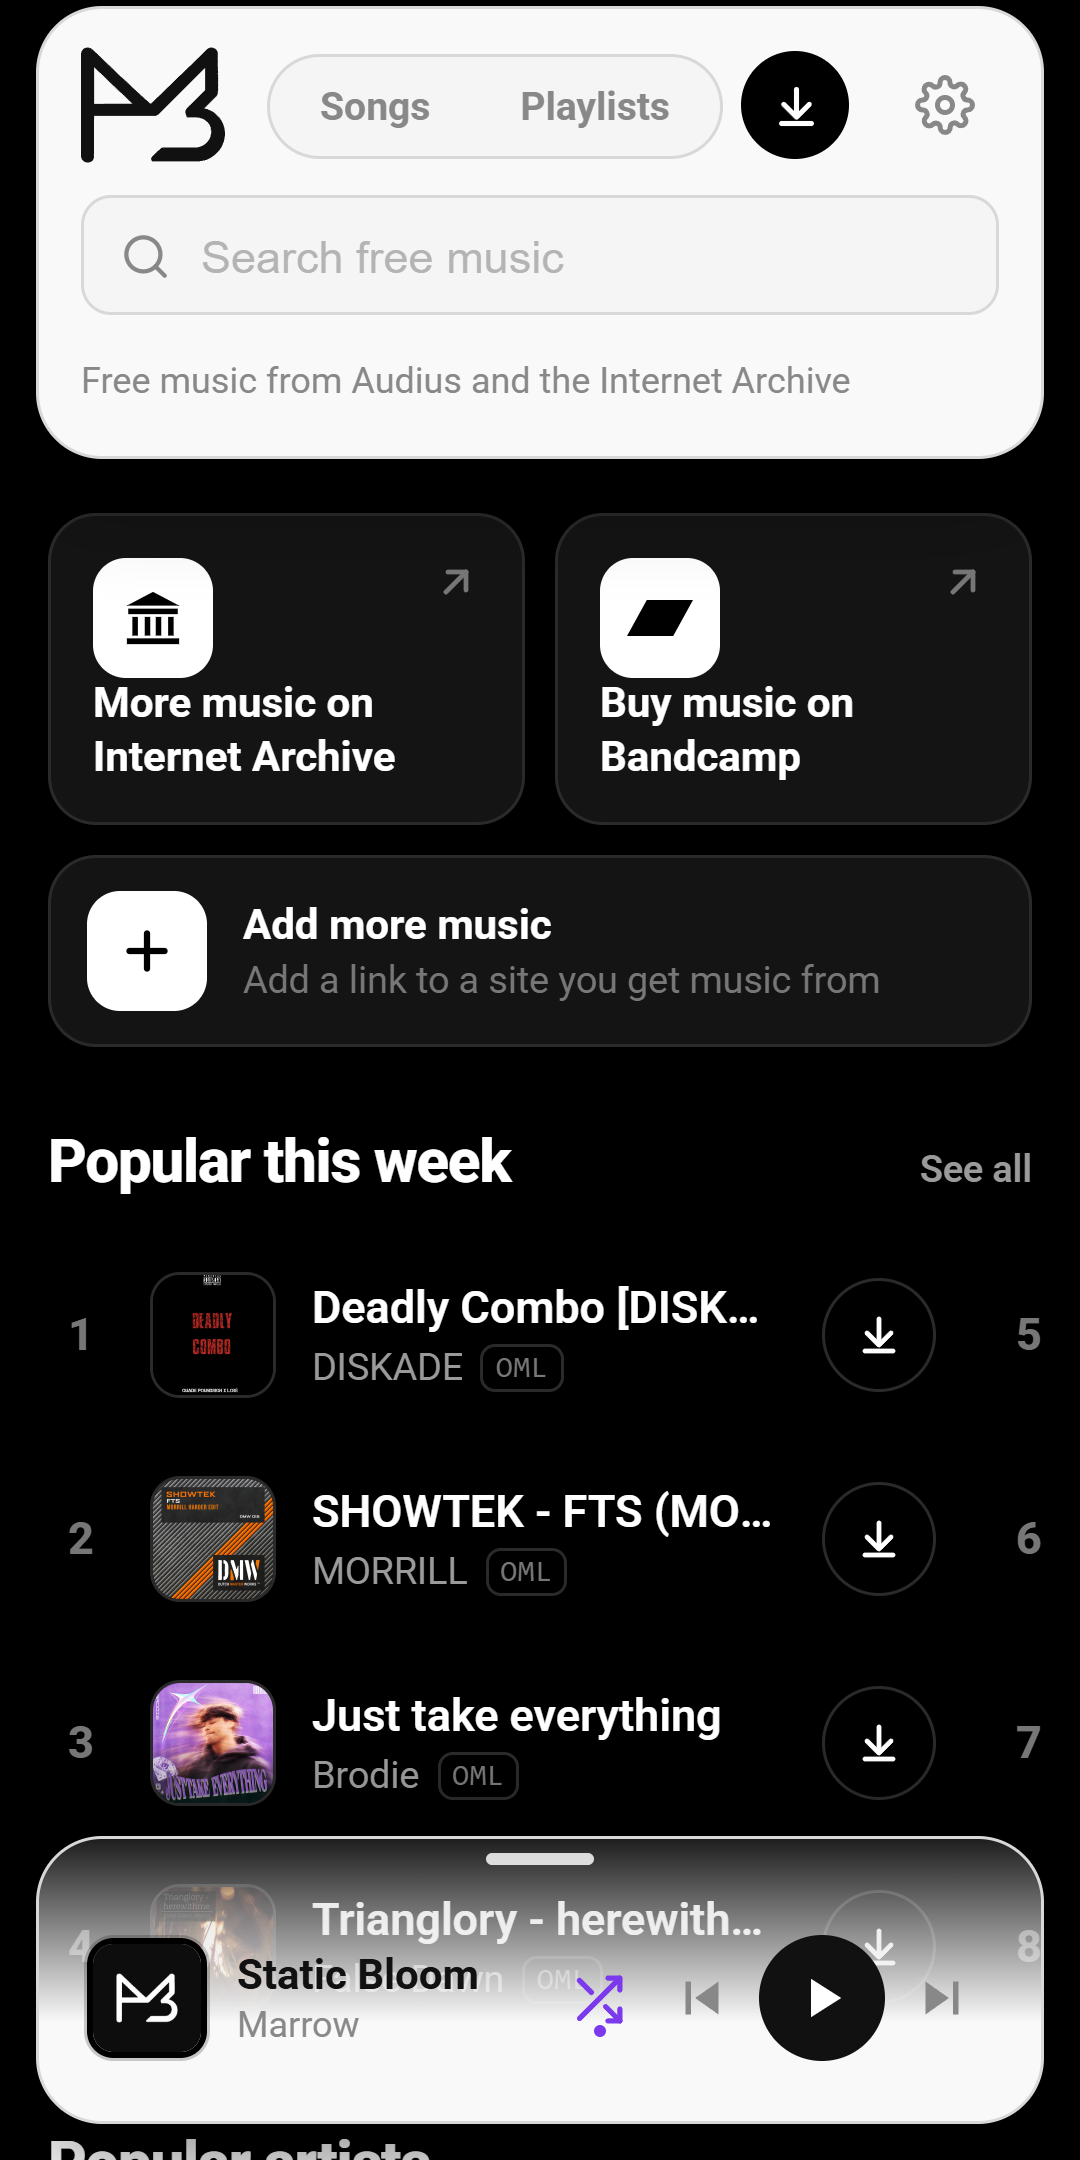
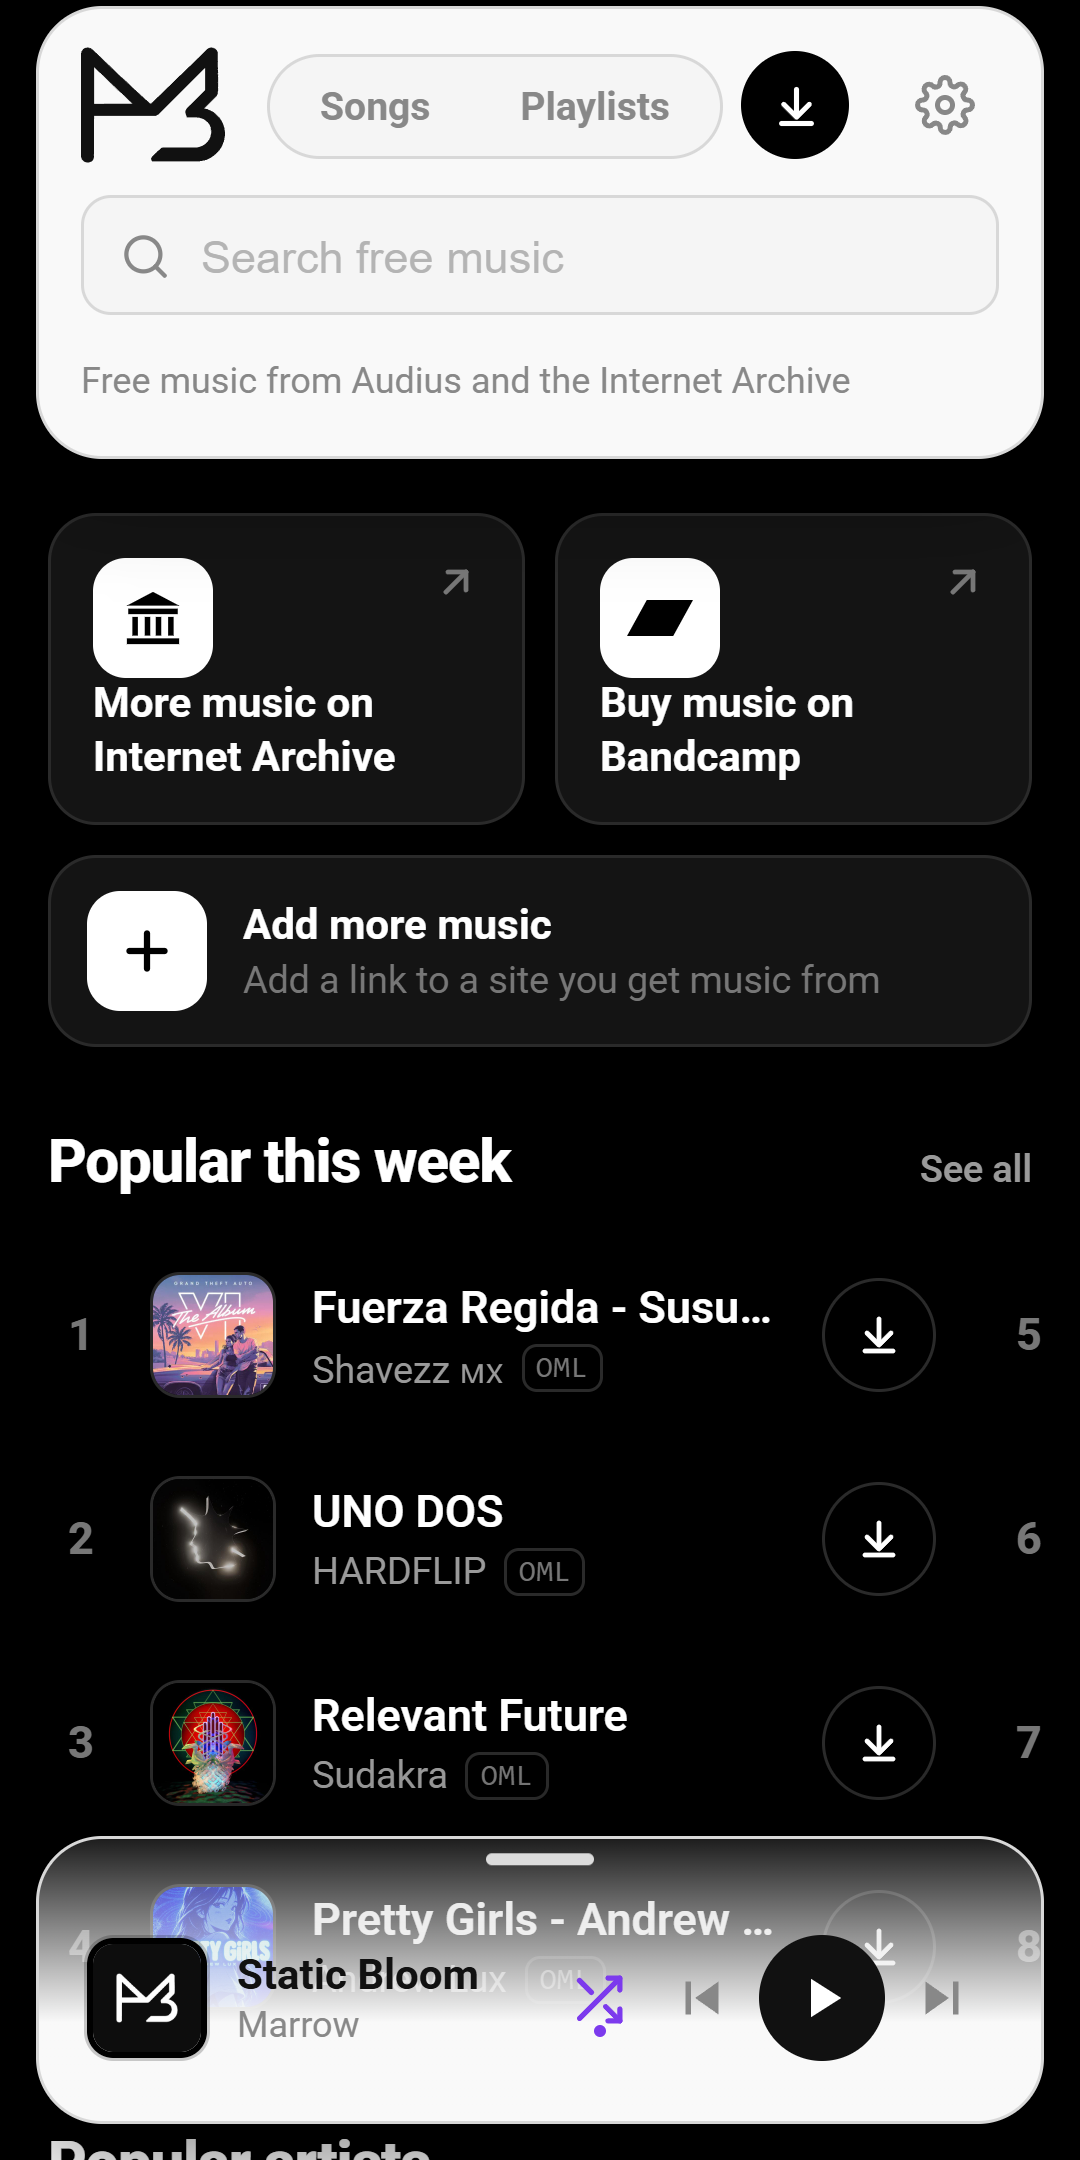
Website: 1.7.0 screenshots, a red flat heart, and a simple download page
The phones under "How it looks" are captured again from 1.7.0
(flows-site-1.7.0.mjs). The features mention the widgets, backups to
Google Drive, OneDrive or Dropbox, and the extra player styles in Pro.
The Support heart is a flat SVG in the like red instead of an emoji.
download.html is now a plain store page: Google Play and Microsoft Store
side by side, with the old-APK move-over steps folded away underneath.

diff --git a/Website/download.html b/Website/download.html
@@ -3,13 +3,13 @@
 <head>
 <meta charset="UTF-8">
 <meta name="viewport" content="width=device-width, initial-scale=1">
-<title>MPTree for Android</title>
-<meta name="description" content="MPTree for Android is on Google Play. How to move over from a copy downloaded from this website.">
-<meta name="robots" content="noindex">
+<title>Download MPTree</title>
+<meta name="description" content="Download MPTree, the free offline music player, for Android from Google Play or for Windows from the Microsoft Store.">
+<link rel="canonical" href="https://mp-tree.net/download.html">
 <meta name="theme-color" content="#000000">
 <meta property="og:type" content="website">
-<meta property="og:title" content="MPTree for Android">
-<meta property="og:description" content="MPTree for Android is on Google Play. How to move over from a copy downloaded from this website.">
+<meta property="og:title" content="Download MPTree">
+<meta property="og:description" content="The free offline music player, for Android and Windows.">
 <meta property="og:image" content="https://mp-tree.net/assets/img/og-image.png?v=45">
 <meta name="twitter:card" content="summary_large_image">
 <meta name="twitter:image" content="https://mp-tree.net/assets/img/og-image.png?v=45">
@@ -19,7 +19,7 @@
 <link rel="apple-touch-icon" href="assets/icon/apple-touch-icon-180.png">
 
 <link rel="stylesheet" href="assets/tokens.css?v=45">
-<link rel="stylesheet" href="assets/site.css?v=50">
+<link rel="stylesheet" href="assets/site.css?v=51">
 </head>
 <body>
 
@@ -30,64 +30,48 @@
       <span>MPTree</span>
     </a>
     <nav class="bar-nav bar-nav-dl">
+      <a href="/#look">How it looks</a>
       <a href="/#features">Features</a>
-      <a href="/#support">Support</a>
     </nav>
   </div>
 </header>
 
-<main id="main" class="wrap dl">
+<main id="main" class="wrap dlp">
 
-  <!-- The website no longer hands out its own Android copy: Google Play is the
-       one way in (October 2026). This page stays because copies downloaded here
-       before still point at it when they say a new version is out. -->
-  <section class="dl-head">
-    <p class="kicker">Free music player for Android</p>
-    <h1>MPTree for Android</h1>
-    <p class="lede">MPTree for Android comes from Google Play, which keeps it up to date for you.</p>
-    <div class="dl-actions">
+  <section class="dlp-head">
+    <img src="assets/img/mptree-mark-white.svg" alt="" width="64" height="64" class="dlp-mark">
+    <h1>Get MPTree</h1>
+    <p>Free. Plays the music on your device. No account needed.</p>
+  </section>
+
+  <!-- One card per store. The Store link keeps its cid so the Microsoft
+       Store dashboard can count website installs. -->
+  <section class="dlp-stores" aria-label="Stores">
+    <div class="dlp-card">
+      <h2>Android</h2>
+      <p>Android 7.0 or newer</p>
       <a class="store-badge" href="https://play.google.com/store/apps/details?id=com.caelan.mptree" target="_blank" rel="noopener"><img src="assets/img/google-play-badge.png?v=47" alt="Get it on Google Play" width="564" height="168"></a>
+    </div>
+    <div class="dlp-card">
+      <h2>Windows</h2>
+      <p>Windows 10 or 11</p>
+      <a class="store-badge" href="https://get.microsoft.com/installer/download/9PN3L88V4H58?cid=website_cta_psi"><img src="assets/img/microsoft-store-badge.svg?v=48" alt="Download from the Microsoft Store" width="161" height="44"></a>
     </div>
   </section>
 
-  <section class="section-flush">
-    <h2>Got MPTree from this website before?</h2>
-    <p class="section-lede">
-      That copy no longer gets updates. The one on Google Play is signed differently, so
-      Android will not install it on top: the old one goes first. Your music files stay
-      where they are, and a backup brings back your playlists, likes and settings.
-    </p>
-    <ol class="guide">
-      <li>
-        <span class="g-n">1</span>
-        <div class="g-c">
-          <b>Make a backup</b>
-          <p>In MPTree, open <strong>Settings</strong>, then <strong>Backup &amp; Restore</strong>, and export a backup.</p>
-        </div>
-      </li>
-      <li>
-        <span class="g-n">2</span>
-        <div class="g-c">
-          <b>Uninstall the old MPTree</b>
-          <p>Hold its icon and choose <strong>Uninstall</strong>.</p>
-        </div>
-      </li>
-      <li>
-        <span class="g-n">3</span>
-        <div class="g-c">
-          <b>Install it from Google Play</b>
-          <p>Tap <strong>Get it on Google Play</strong> above, then <strong>Install</strong>.</p>
-        </div>
-      </li>
-      <li>
-        <span class="g-n">4</span>
-        <div class="g-c">
-          <b>Restore your backup</b>
-          <p>Open MPTree, go to <strong>Settings</strong>, then <strong>Restore backup</strong>, and pick the backup you made.</p>
-        </div>
-      </li>
+  <!-- Copies downloaded from this website before October 2026 still point
+       here when they say a new version is out, so the move-over steps stay,
+       folded away. -->
+  <details class="dlp-old">
+    <summary>Got MPTree for Android from this website before?</summary>
+    <p>That copy no longer gets updates, and Android will not install the Google Play one on top of it. Your music stays where it is.</p>
+    <ol>
+      <li>In MPTree, open <strong>Settings</strong>, then <strong>Backup &amp; Restore</strong>, and make a backup.</li>
+      <li>Uninstall the old MPTree.</li>
+      <li>Install MPTree from Google Play.</li>
+      <li>Open it, go to <strong>Settings</strong>, then <strong>Restore backup</strong>.</li>
     </ol>
-  </section>
+  </details>
 
 </main>
 

diff --git a/Website/index.html b/Website/index.html
@@ -26,7 +26,7 @@
 <link rel="apple-touch-icon" href="assets/icon/apple-touch-icon-180.png">
 
 <link rel="stylesheet" href="assets/tokens.css?v=45">
-<link rel="stylesheet" href="assets/site.css?v=50">
+<link rel="stylesheet" href="assets/site.css?v=51">
 <!-- Google AdSense: the one ad on the homepage. Only this page loads it; see privacy.html#site-ads. -->
 <script async src="https://pagead2.googlesyndication.com/pagead/js/adsbygoogle.js?client=ca-pub-3909703327280410" crossorigin="anonymous"></script>
 </head>
@@ -87,8 +87,8 @@
   </section>
 
   <!-- ── Interface. Real screenshots of the app, so they cannot drift from
-       the real thing. The phones are MPTree 1.4.0, captured with
-       Branding/store/app-screens/capture/flows-site-1.4.0.mjs; run it again
+       the real thing. The phones are MPTree 1.7.0, captured with
+       Branding/store/app-screens/capture/flows-site-1.7.0.mjs; run it again
        when the interface changes. ─────────────────────────────────────── -->
   <section id="look" class="section wrap">
     <h2>How it looks</h2>
@@ -109,21 +109,21 @@
       <div class="phone-row">
         <div class="phone">
           <div class="phone-screen">
-            <img class="phone-shot" src="assets/img/screens/songs.png?v=45"
+            <img class="phone-shot" src="assets/img/screens/songs.png?v=49"
                  alt="The MPTree song list, with a track playing in the bar at the bottom"
                  width="1080" height="2160" loading="lazy">
           </div>
         </div>
         <div class="phone">
           <div class="phone-screen">
-            <img class="phone-shot" src="assets/img/screens/playlists.png?v=45"
+            <img class="phone-shot" src="assets/img/screens/playlists.png?v=49"
                  alt="The MPTree playlists page, with the automatic playlists above your own"
                  width="1080" height="2160" loading="lazy">
           </div>
         </div>
         <div class="phone">
           <div class="phone-screen">
-            <img class="phone-shot" src="assets/img/screens/discover.png?v=45"
+            <img class="phone-shot" src="assets/img/screens/discover.png?v=49"
                  alt="Discover in MPTree: search free music, and the songs popular this week, each with a download button"
                  width="1080" height="2160" loading="lazy">
           </div>
@@ -170,15 +170,15 @@
       </li>
       <li>
         <h3>Controls everywhere</h3>
-        <p>Skip and pause from your lock screen, the notification shade, or a widget on your home screen.</p>
+        <p>Skip and pause from your lock screen, the notification shade, or one of the widgets on your home screen.</p>
       </li>
       <li>
         <h3>Backups</h3>
-        <p>Pack your playlists, artwork and music into one file, then restore the lot on a new phone.</p>
+        <p>Pack your playlists, artwork and music into one file, keep it on Google Drive, OneDrive or Dropbox, and restore the lot on a new phone.</p>
       </li>
       <li>
         <h3>Make it yours</h3>
-        <p>Record skins, colour shades and app icons come with MPTree Pro, a one-time €2.99. Everything above stays free.</p>
+        <p>Extra player styles, records and app icons come with MPTree Pro, a one-time €2.99. Everything above stays free.</p>
       </li>
       <li>
         <h3>On all your devices</h3>
@@ -229,7 +229,7 @@
         when you choose one, for a day of Pro. If it is useful to you, you can chip in. Entirely optional, always appreciated.
       </p>
       <a class="btn btn-lg btn-ghost" href="https://paypal.me/MPTreeApp" target="_blank" rel="noopener">
-        <span aria-hidden="true">❤</span>&nbsp; Support MPTree
+        <svg class="heart" width="16" height="16" viewBox="0 0 24 24" fill="currentColor" aria-hidden="true"><path d="M12 21.2 10.6 20C5.4 15.3 2 12.2 2 8.4 2 5.3 4.4 3 7.4 3c1.7 0 3.4.8 4.6 2.1C13.2 3.8 14.9 3 16.6 3 19.6 3 22 5.3 22 8.4c0 3.8-3.4 6.9-8.6 11.6L12 21.2z"/></svg>Support MPTree
       </a>
     </div>
   </section>

diff --git a/Website/assets/site.css b/Website/assets/site.css
@@ -551,3 +551,38 @@ a { color: inherit; text-decoration: none; }
 .soon-h { vertical-align: middle; margin-left: 8px; position: relative; top: -4px; }
 .dl-meta { text-decoration: none; cursor: default; }
 .dl-meta:hover { color: var(--mp-muted); }
+
+/* ── Download page, simple (November 2026) ─────────────────────────────── */
+.btn .heart { margin-right: 8px; flex: none; color: var(--mp-state-like); }
+.dlp { padding-top: 56px; padding-bottom: 24px; max-width: 760px; }
+.dlp-head { text-align: center; }
+.dlp-mark { display: block; margin: 0 auto 20px; }
+.dlp-head h1 {
+  margin: 0;
+  font-size: clamp(34px, 6vw, 56px);
+  font-weight: var(--mp-weight-heavy);
+  letter-spacing: -0.04em;
+  line-height: 1.04;
+}
+.dlp-head p { margin: 14px auto 0; color: var(--mp-text-sub); font-size: var(--mp-text-body); max-width: 40ch; }
+.dlp-stores { margin-top: 44px; display: grid; grid-template-columns: 1fr 1fr; gap: 16px; }
+.dlp-card {
+  border: 1px solid var(--mp-border);
+  border-radius: var(--mp-radius-lg);
+  padding: 28px 20px 24px;
+  display: flex; flex-direction: column; align-items: center; text-align: center;
+}
+.dlp-card h2 { margin: 0; font-size: var(--mp-text-title); font-weight: var(--mp-weight-bold); letter-spacing: -0.02em; }
+.dlp-card p { margin: 6px 0 22px; color: var(--mp-muted); font-size: var(--mp-text-small); }
+.dlp-card .store-badge { margin-top: auto; display: flex; align-items: center; height: 54px; }
+.dlp-card .store-badge img { height: 54px; width: auto; }
+.dlp-old { margin: 40px auto 0; max-width: 560px; color: var(--mp-text-sub); font-size: var(--mp-text-small); }
+.dlp-old summary { cursor: pointer; text-align: center; color: var(--mp-muted); list-style: none; }
+.dlp-old summary::-webkit-details-marker { display: none; }
+.dlp-old summary:hover { color: var(--mp-text); }
+.dlp-old[open] summary { margin-bottom: 12px; color: var(--mp-text); }
+.dlp-old ol { margin: 12px 0 0; padding-left: 20px; line-height: 1.7; }
+@media (max-width: 560px) {
+  .dlp { padding-top: 36px; }
+  .dlp-stores { grid-template-columns: 1fr; }
+}

diff --git a/Website/privacy.html b/Website/privacy.html
@@ -13,7 +13,7 @@
 <link rel="apple-touch-icon" href="assets/icon/apple-touch-icon-180.png">
 
 <link rel="stylesheet" href="assets/tokens.css?v=45">
-<link rel="stylesheet" href="assets/site.css?v=50">
+<link rel="stylesheet" href="assets/site.css?v=51">
 </head>
 <body>
 

diff --git a/Website/test.html b/Website/test.html
@@ -14,7 +14,7 @@
 <link rel="apple-touch-icon" href="assets/icon/apple-touch-icon-180.png">
 
 <link rel="stylesheet" href="assets/tokens.css?v=45">
-<link rel="stylesheet" href="assets/site.css?v=50">
+<link rel="stylesheet" href="assets/site.css?v=51">
 </head>
 <body>
 
